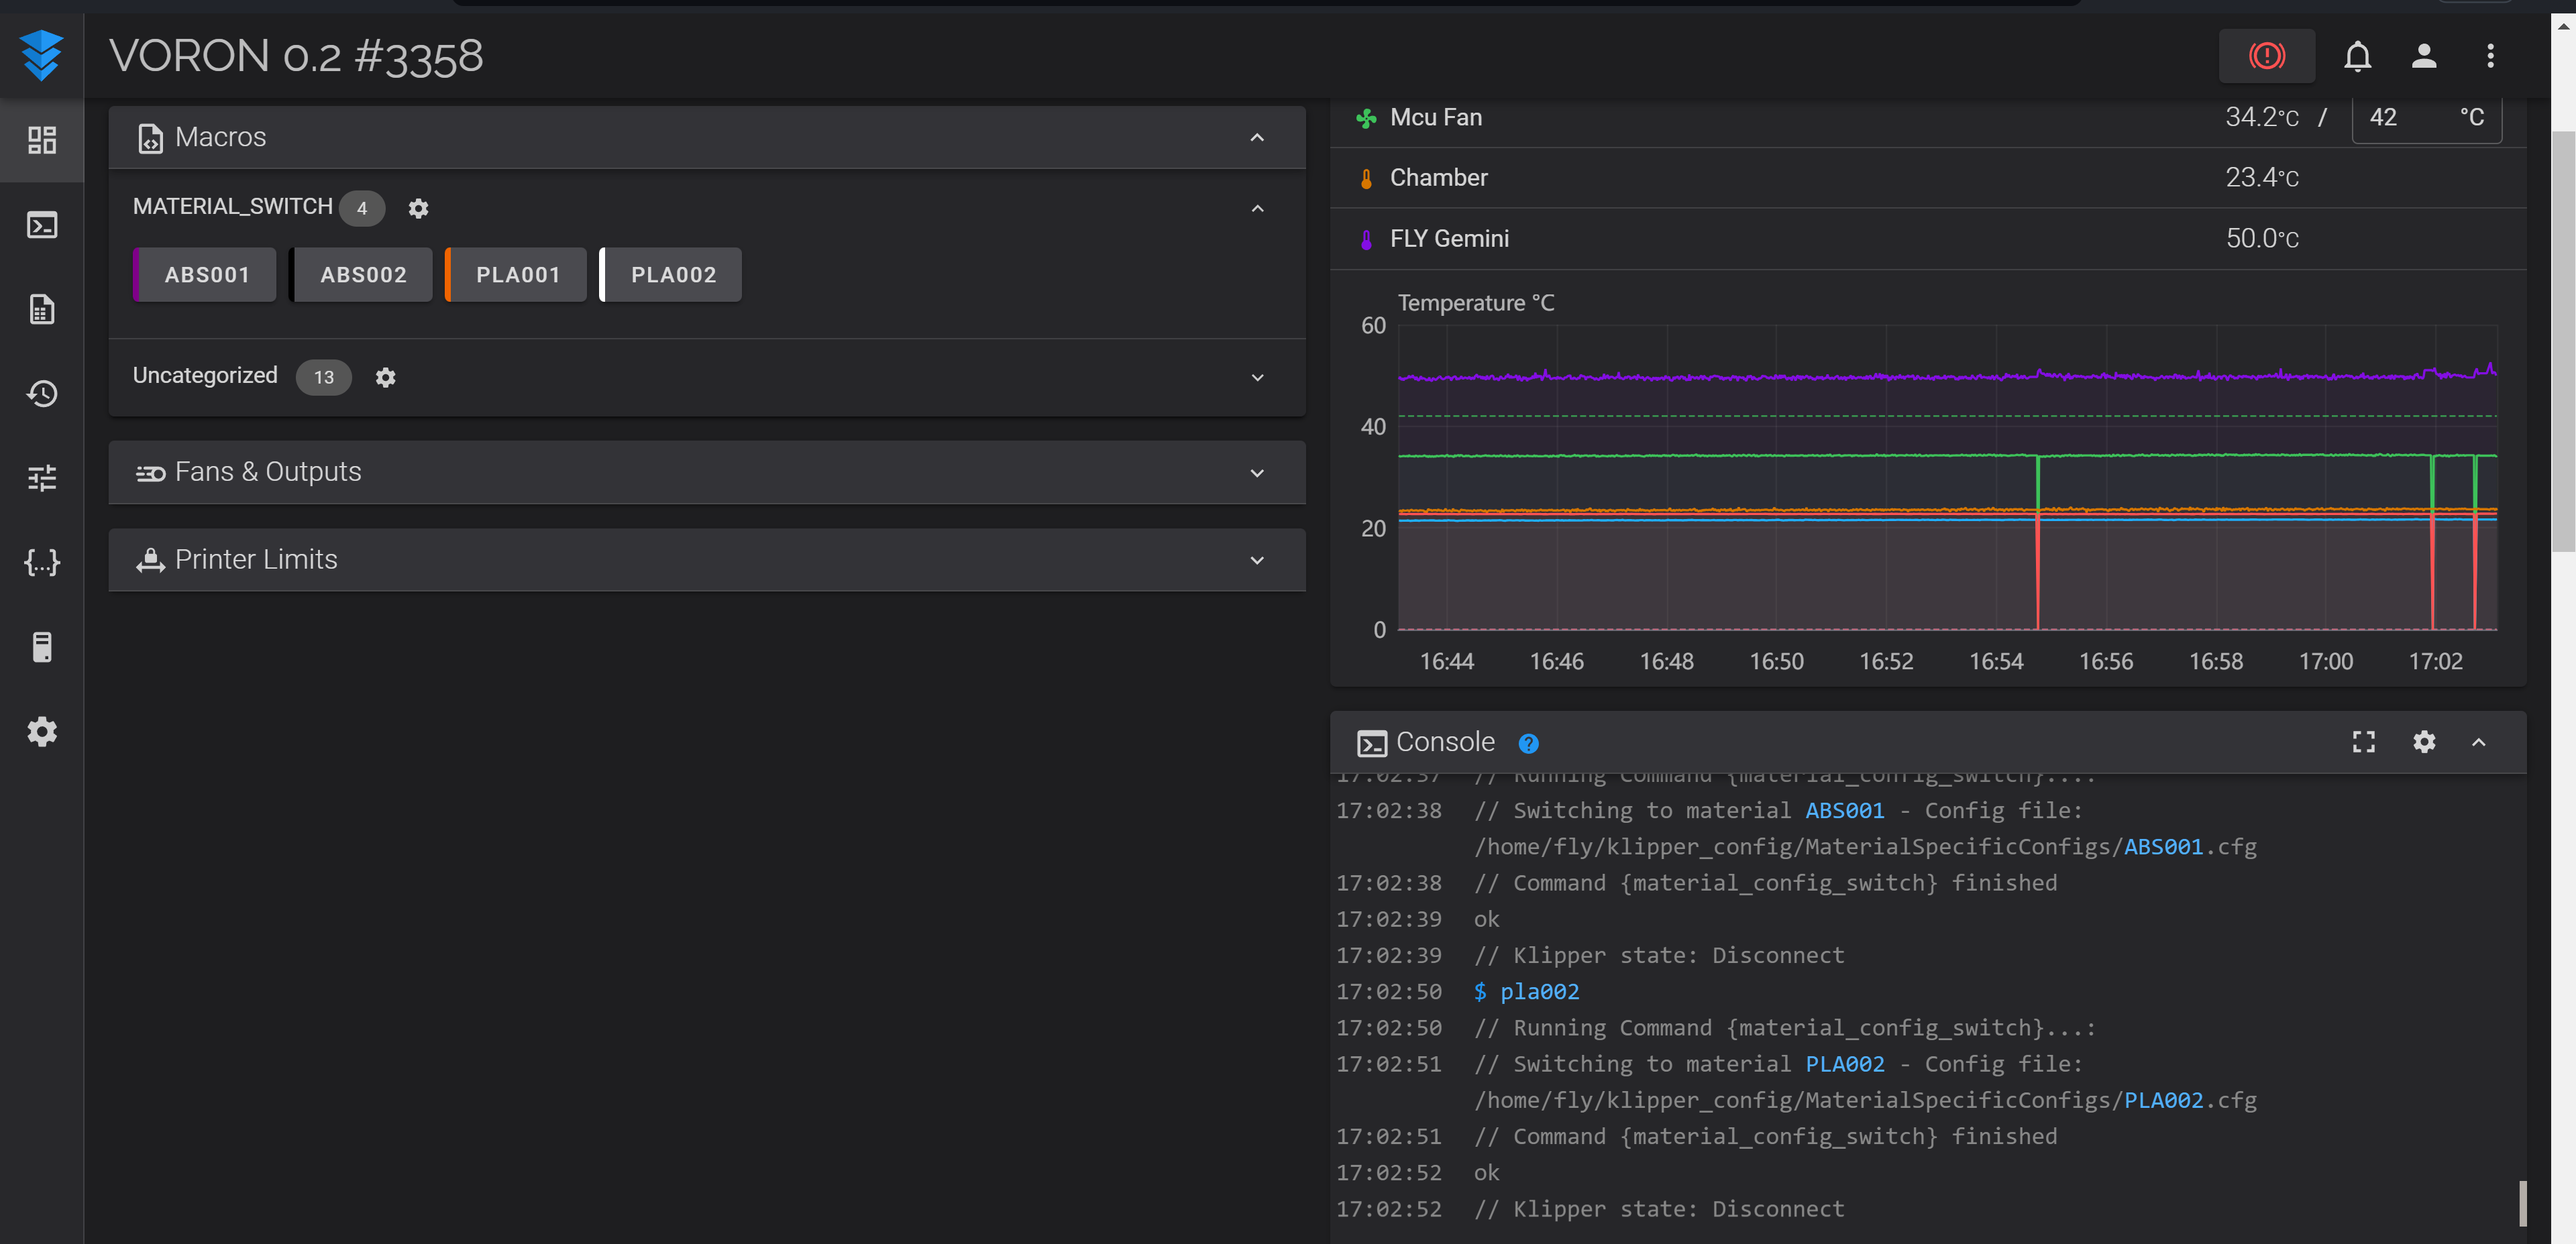
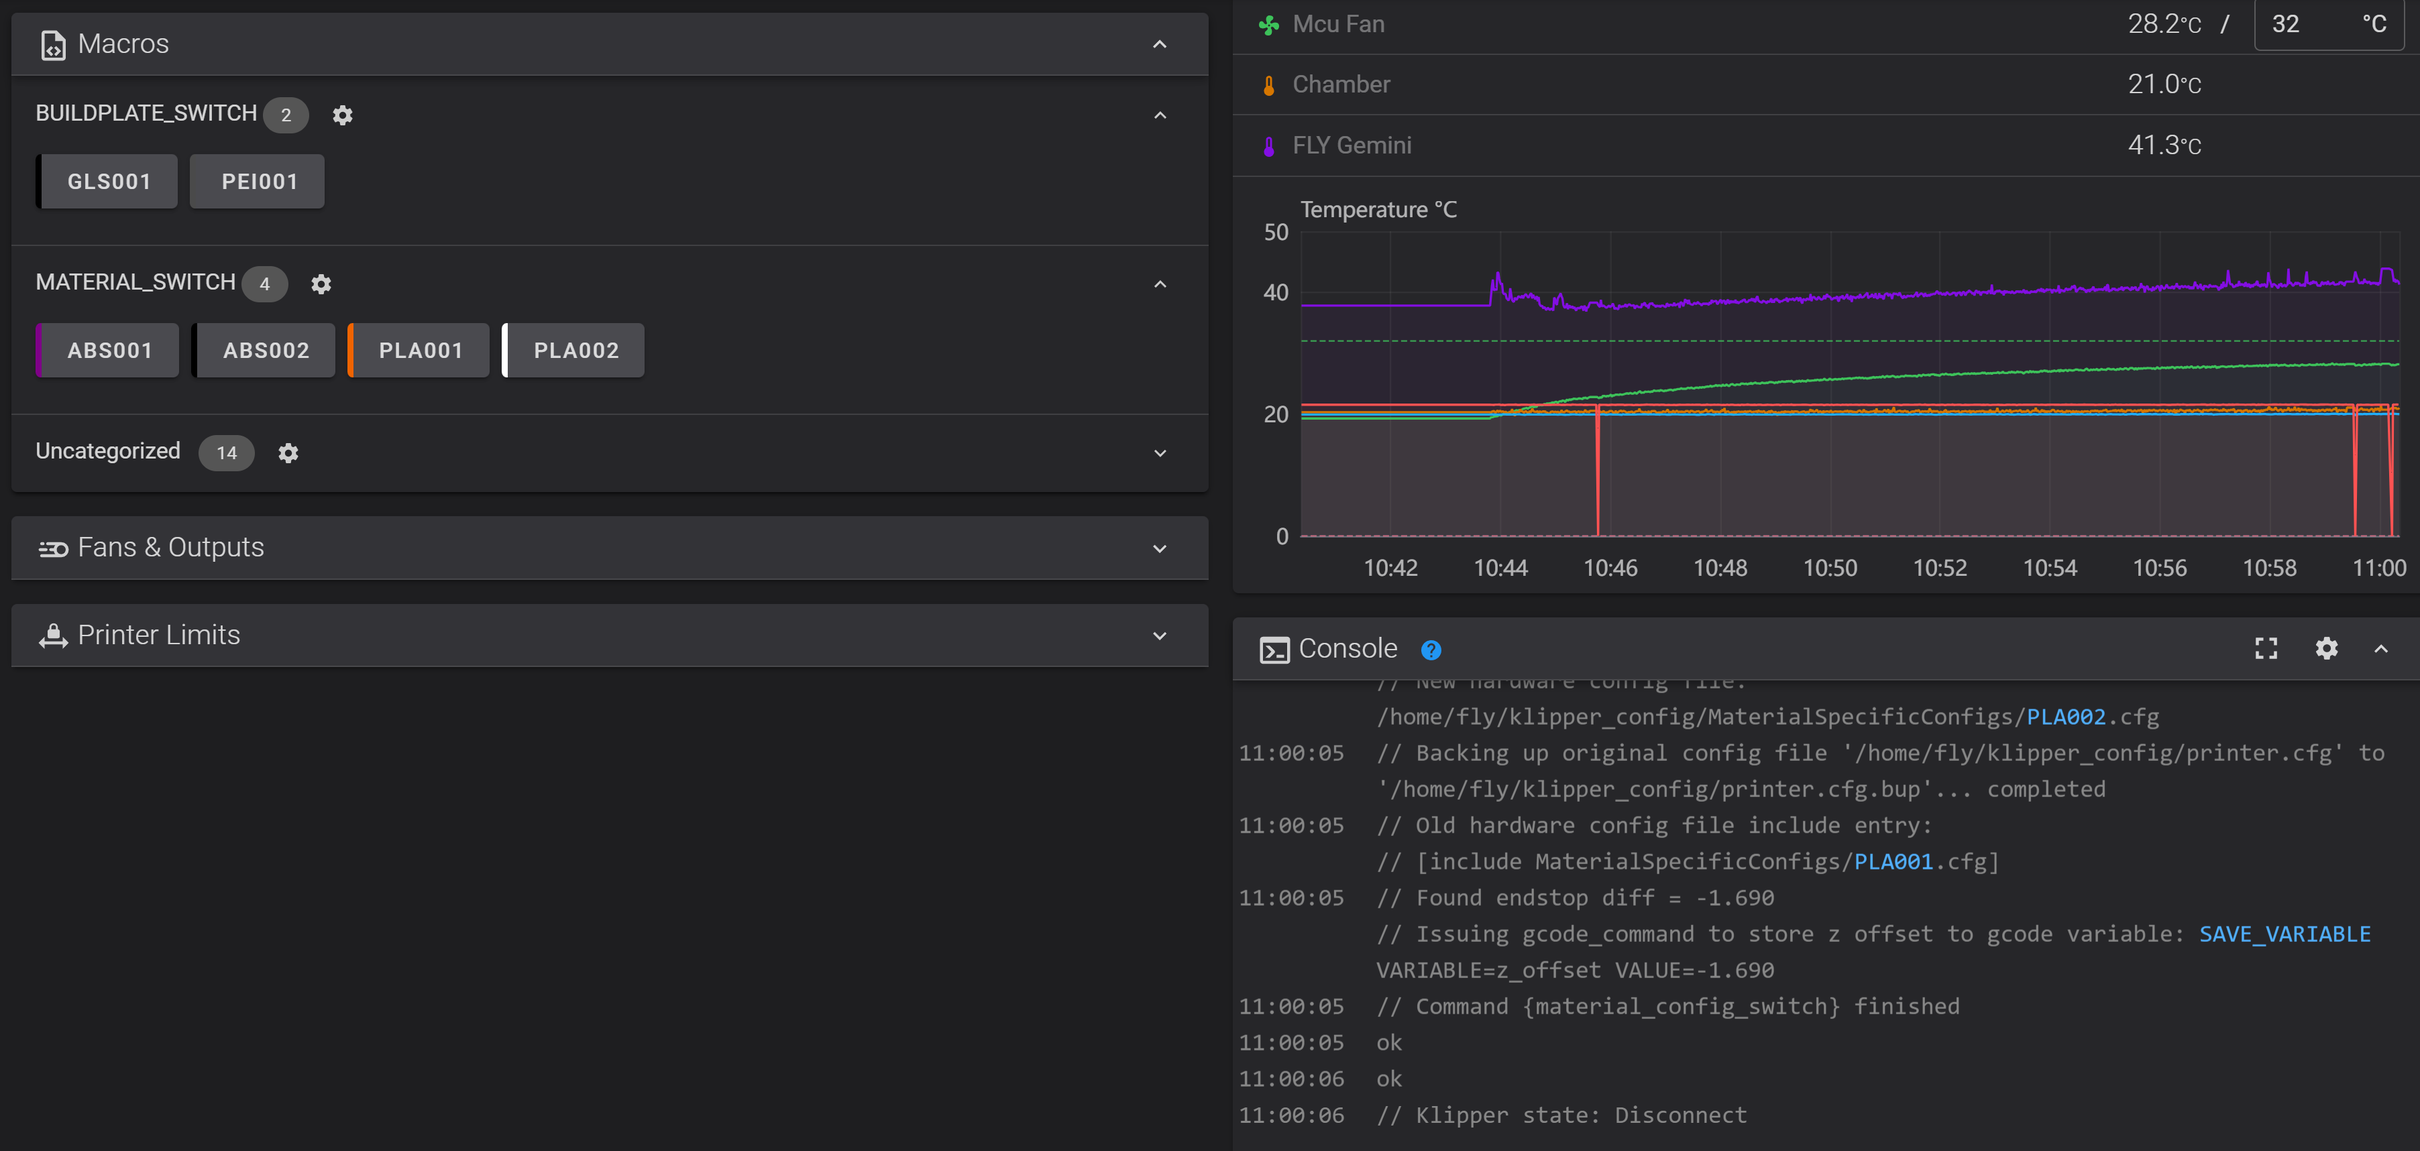
Make tool's functionality clearer to reader
Change toolhead to buildplate in examples, add more macros to screenshot to show different hardware types

diff --git a/scriptConfig.py b/scriptConfig.py
@@ -1,13 +1,13 @@
 # You can use these entries to run this script locally using the GitHub provided folder structure
 # PRINTER_CONFIG_FILE = 'printer.cfg'
-# modes = {'-m': 'MaterialSpecificConfigs', '-t': 'ToolheadSpecificConfigs'}
+# modes = {'-m': 'MaterialSpecificConfigs', '-b': 'BuildplateSpecificConfigs'}
 
 # Absolute path, must be under your klipper config directory
 # MATERIAL_DIRECTORY = '/home/fly/klipper_config/MaterialSpecificConfigs/'
 # Absolute path
 PRINTER_CONFIG_FILE = '/home/fly/klipper_config/printer.cfg'
 modes = {'-m': '/home/fly/klipper_config/MaterialSpecificConfigs',
-         '-t': '/home/fly/klipper_config/ToolheadSpecificConfigs'}
+         '-b': '/home/fly/klipper_config/BuildplateSpecificConfigs'}
 PRINTER_CONFIG_FILE_BACKUP_EXTENSION = '.bup'
 HARDWARE_CODE_REGEX = r"[A-Z]{3}\d{3}$"
 HARDWARE_CODE_REGEX_EXAMPLE = 'PLA001'  # Leave empty if you don't want to add an example

diff --git a/README.md b/README.md
@@ -20,7 +20,7 @@ pid values, or even things like minimum/maximum extrusion temperature.
 We can choose various different kinds of hardware to change with each macro, such as toolheads, nozzles, build surfaces, etc.\
 For each such hardware we create a mode-directory pair in _scriptConfig.py_, as such:
 
-    modes = {'-m': 'MaterialSpecificConfigs', '-t': 'ToolheadSpecificConfigs'}
+    modes = {'-m': 'MaterialSpecificConfigs', '-b': 'BuildplateSpecificConfigs'}
 
 
 ![](images/materialConfigView.PNG "")
